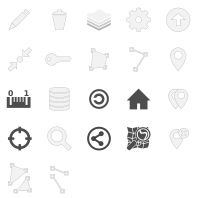
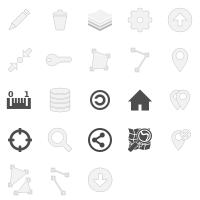
Add download button in advanced actins for map and datalayer

diff --git a/umap/static/umap/js/umap.js b/umap/static/umap/js/umap.js
@@ -1263,8 +1263,8 @@ L.U.Map.include({
             callbackContext: this
         });
         limitBounds.appendChild(boundsBuilder.build());
-        var boundsButtons = L.DomUtil.create('div', 'button-bar', limitBounds);
-        var setCurrentButton = L.DomUtil.add('a', 'button half', boundsButtons, L._('Use current bounds'));
+        var boundsButtons = L.DomUtil.create('div', 'button-bar half', limitBounds);
+        var setCurrentButton = L.DomUtil.add('a', 'button', boundsButtons, L._('Use current bounds'));
         setCurrentButton.href = '#';
         L.DomEvent.on(setCurrentButton, 'click', function () {
             var bounds = this.getBounds();
@@ -1276,7 +1276,7 @@ L.U.Map.include({
             this.isDirty = true;
             this.handleLimitBounds();
         }, this);
-        var emptyBounds = L.DomUtil.add('a', 'button half', boundsButtons, L._('Empty'));
+        var emptyBounds = L.DomUtil.add('a', 'button', boundsButtons, L._('Empty'));
         emptyBounds.href = '#';
         L.DomEvent.on(emptyBounds, 'click', function () {
             this.options.limitBounds.south = null;
@@ -1318,27 +1318,34 @@ L.U.Map.include({
         credits.appendChild(creditsBuilder.build());
 
         var advancedActions = L.DomUtil.createFieldset(container, L._('Advanced actions'));
-        var advancedButtons = L.DomUtil.create('div', 'button-bar', advancedActions);
-        var del = L.DomUtil.create('a', 'button third umap-delete', advancedButtons);
+        var advancedButtons = L.DomUtil.create('div', 'button-bar half', advancedActions);
+        var del = L.DomUtil.create('a', 'button umap-delete', advancedButtons);
         del.href = '#';
         del.innerHTML = L._('Delete');
         L.DomEvent
             .on(del, 'click', L.DomEvent.stop)
             .on(del, 'click', this.del, this);
-        var clone = L.DomUtil.create('a', 'button third umap-clone', advancedButtons);
+        var clone = L.DomUtil.create('a', 'button umap-clone', advancedButtons);
         clone.href = '#';
         clone.innerHTML = L._('Clone');
         clone.title = L._('Clone this map');
         L.DomEvent
             .on(clone, 'click', L.DomEvent.stop)
             .on(clone, 'click', this.clone, this);
-        var empty = L.DomUtil.create('a', 'button third umap-empty', advancedButtons);
+        var empty = L.DomUtil.create('a', 'button umap-empty', advancedButtons);
         empty.href = '#';
         empty.innerHTML = L._('Empty');
         empty.title = L._('Delete all layers');
         L.DomEvent
             .on(empty, 'click', L.DomEvent.stop)
             .on(empty, 'click', this.empty, this);
+        var download = L.DomUtil.create('a', 'button umap-download', advancedButtons);
+        download.href = '#';
+        download.innerHTML = L._('Download');
+        download.title = L._('Open download panel');
+        L.DomEvent
+            .on(download, 'click', L.DomEvent.stop)
+            .on(download, 'click', this.renderShareBox, this);
         this.ui.openPanel({data: {html: container}, className: 'dark'});
     },
 

diff --git a/umap/static/umap/js/umap.layer.js b/umap/static/umap/js/umap.layer.js
@@ -796,8 +796,8 @@ L.U.DataLayer = L.Class.extend({
         if (this.map.options.urls.datalayer_versions) this.buildVersionsFieldset(container);
 
         var advancedActions = L.DomUtil.createFieldset(container, L._('Advanced actions'));
-        var advancedButtons = L.DomUtil.create('div', 'button-bar', advancedActions);
-        var deleteLink = L.DomUtil.create('a', 'button third delete_datalayer_button umap-delete', advancedButtons);
+        var advancedButtons = L.DomUtil.create('div', 'button-bar half', advancedActions);
+        var deleteLink = L.DomUtil.create('a', 'button delete_datalayer_button umap-delete', advancedButtons);
         deleteLink.innerHTML = L._('Delete');
         deleteLink.href = '#';
         L.DomEvent.on(deleteLink, 'click', L.DomEvent.stop)
@@ -806,13 +806,13 @@ L.U.DataLayer = L.Class.extend({
                     this.map.ui.closePanel();
                 }, this);
         if (!this.isRemoteLayer()) {
-            var emptyLink = L.DomUtil.create('a', 'button third umap-empty', advancedButtons);
+            var emptyLink = L.DomUtil.create('a', 'button umap-empty', advancedButtons);
             emptyLink.innerHTML = L._('Empty');
             emptyLink.href = '#';
             L.DomEvent.on(emptyLink, 'click', L.DomEvent.stop)
                       .on(emptyLink, 'click', this.empty, this);
         }
-        var cloneLink = L.DomUtil.create('a', 'button third umap-clone', advancedButtons);
+        var cloneLink = L.DomUtil.create('a', 'button umap-clone', advancedButtons);
         cloneLink.innerHTML = L._('Clone');
         cloneLink.href = '#';
         L.DomEvent.on(cloneLink, 'click', L.DomEvent.stop)
@@ -820,6 +820,10 @@ L.U.DataLayer = L.Class.extend({
                     var datalayer = this.clone();
                     datalayer.edit();
                 }, this);
+        var download = L.DomUtil.create('a', 'button umap-download', advancedButtons);
+        download.innerHTML = L._('Download');
+        download.href = this._dataUrl();
+        download.target = '_blank';
         this.map.ui.openPanel({data: {html: container}, className: 'dark'});
 
     },

diff --git a/umap/static/umap/base.css b/umap/static/umap/base.css
@@ -334,6 +334,19 @@ input.switch:checked ~ label:after {
 }
 .button-bar {
     margin-top: 5px;
+    text-align: center;
+    display: grid;
+    grid-gap: 7px;
+    width: 100%
+}
+.button-bar.half {
+    grid-template-columns: 1fr 1fr;
+}
+.button-bar.third {
+    grid-template-columns: 1fr 1fr 1fr;
+}
+.button-bar .button {
+    display: inline-block;
 }
 .umap-multiplechoice input[type='radio'] {
     display: none;
@@ -421,7 +434,7 @@ i.info {
 }
 
 .umap-delete:before, .umap-empty:before, .umap-to-polygon:before,
-.umap-clone:before, .umap-edit:before,
+.umap-clone:before, .umap-edit:before, .umap-download:before,
 .umap-to-polyline:before {
     background-repeat: no-repeat;
     text-indent: 38px;
@@ -435,7 +448,7 @@ i.info {
 .dark .umap-delete:before, .dark .umap-empty:before,
 .dark .umap-to-polygon:before,
 .dark .umap-clone:before,
-.dark .umap-edit:before,
+.dark .umap-edit:before, .dark .umap-download:before,
 .dark .umap-to-polyline:before {
     background-image: url('./img/24-white.png');
     vertical-align: middle;
@@ -457,6 +470,9 @@ i.info {
 }
 .umap-empty:before {
     background-position: -160px -126px;
+}
+.umap-download:before {
+    background-position: -88px -168px;
 }
 .umap-edit-actions {
     padding-top: 5px;

diff --git a/umap/static/umap/content.css b/umap/static/umap/content.css
@@ -143,21 +143,6 @@ h2.section {
     display: inline-block;
     height: 128px;
 }
-.button-bar {
-    text-align: center;
-}
-.button-bar .button {
-    display: inline-block;
-}
-.button-bar .button + .button {
-    margin-left: 14px;
-}
-.button-bar .button.half {
-    width: calc(50% - 7px);
-}
-.button-bar .button.third {
-    width: calc(100% / 3 - 10px);
-}
 .demo-instance-warning {
     background-color: #c0392b;
     color: #efefef;

diff --git a/umap/static/umap/js/umap.permissions.js b/umap/static/umap/js/umap.permissions.js
@@ -43,7 +43,7 @@ L.U.MapPermissions = L.Class.extend({
         return this.map;
     },
 
-    panel: function () {
+    edit: function () {
         if (!this.map.options.umap_id) return this.map.ui.alert({content: L._('Please save the map before'), level: 'info'});
         var container = L.DomUtil.create('div', 'permissions-panel'),
             fields = [],

diff --git a/umap/static/umap/js/umap.controls.js b/umap/static/umap/js/umap.controls.js
@@ -88,7 +88,7 @@ L.U.UpdatePermsAction = L.U.BaseAction.extend({
     },
 
     addHooks: function () {
-        this.map.permissions.panel();
+        this.map.permissions.edit();
     }
 
 });
